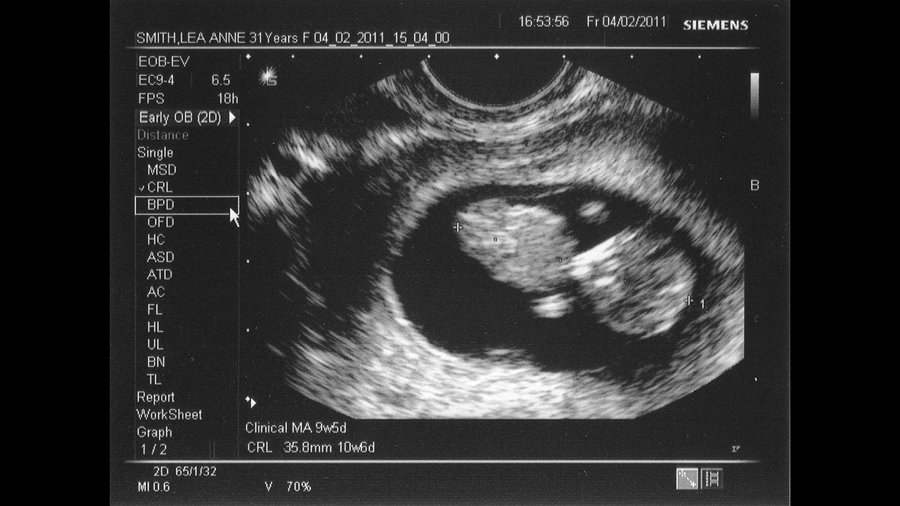
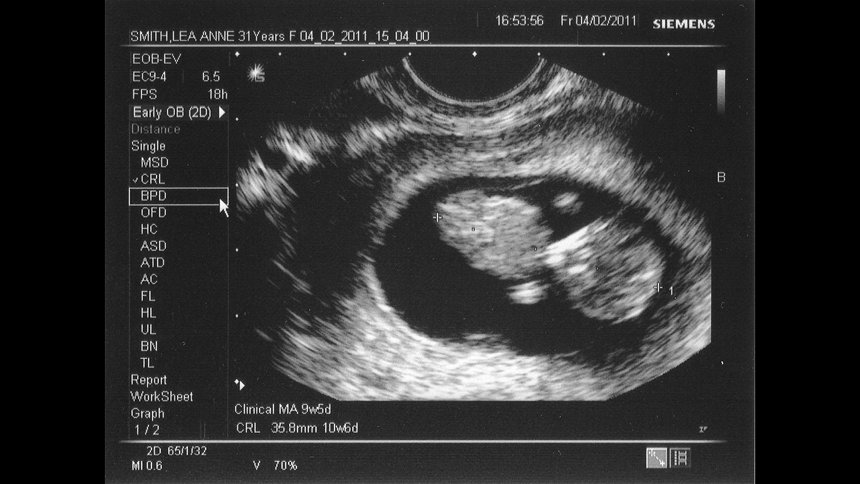
fix size

diff --git a/index.html b/index.html
@@ -33,8 +33,8 @@
       }
       #video-noflash {
         position: relative;
-        width: 900px;
-        height: 506px;
+        width: 860px;
+        height: 484px;
       }
       #video-noflash img {
         border: none;
